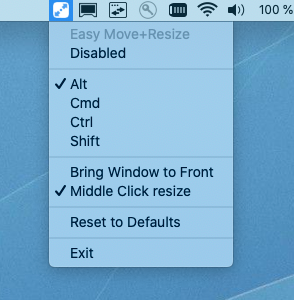
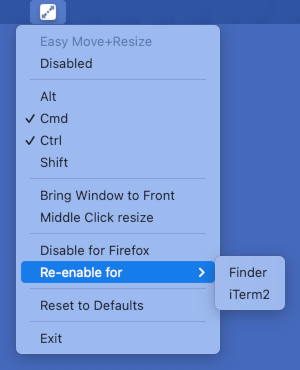
Document "Disable in specific apps"
Doc the "Disable in specific apps" feature added in
https://github.com/dmarcotte/easy-move-resize/pull/72

diff --git a/readme.md b/readme.md
@@ -6,6 +6,8 @@ Adds easy `modifier key + mouse drag` move and resize to OSX
 
 **Easy Move+Resize** is based on behavior found in many X11/Linux window managers
 
+![Menu](asset-sources/doc-img/menu.png)
+
 - `Cmd + Ctrl + Left Mouse` anywhere inside a window, then drag to ***move***.
 - `Cmd + Ctrl + Right Mouse` anywhere inside a window, then drag to ***resize***,
     - The resize direction is determined by which region of the window is clicked. *i.e.* a right-click in roughly the top-left corner of a window will act as if you grabbed the top left corner, whereas a right-click in roughly the top-center of a window will act as if you grabbed the top of the window.
@@ -16,6 +18,7 @@ Adds easy `modifier key + mouse drag` move and resize to OSX
 - Behavior can be disabled by toggling the `Disabled` item in the application icon menu.
 - If you are dragging or resizing a window in the background and want it to rise to the top, select the `Bring Window to Front` menu item.
 - To restore application settings, select the `Reset to Defaults` menu item.
+- To disable for a particular app, select `Disable for ...` from the menu after using **Easy Move+Resize** on that app.
 
 ## Installation
 
@@ -35,10 +38,6 @@ If faced with an inability to start the application due to a macOS "cannot check
 ```sh
 xattr -dr com.apple.quarantine /Applications/Easy\ Move+Resize.app
 ```
-
-## Screenshots
-
-![Menu](asset-sources/doc-img/menu.png)
 
 ## Contributing
 
